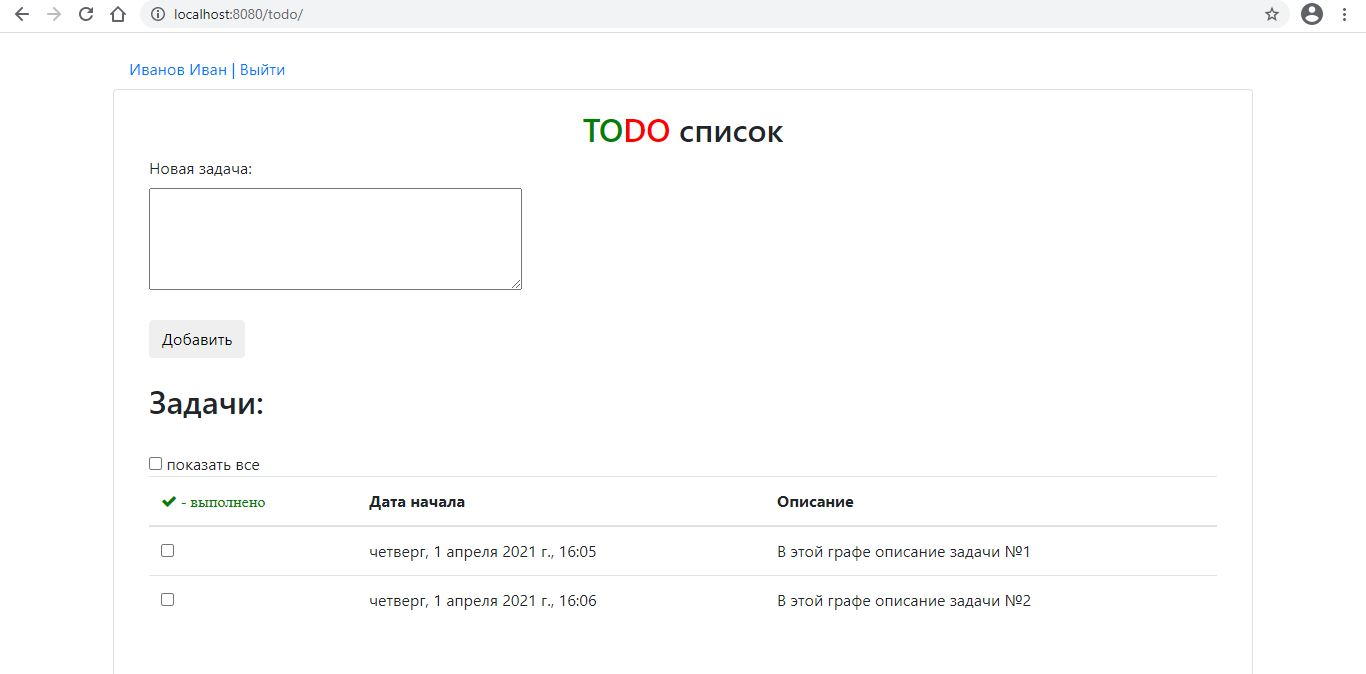
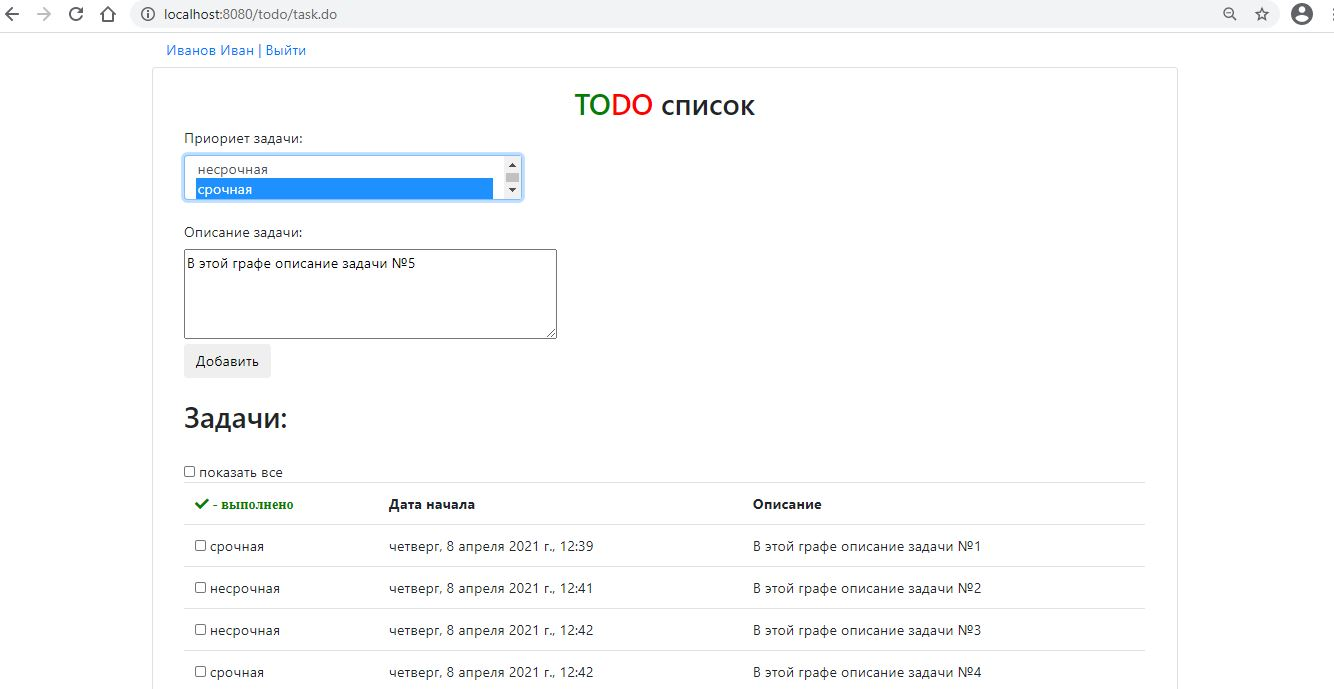
5. Date [#477025]

diff --git a/src/main/java/ru/job4j/todo/model/Task.java b/src/main/java/ru/job4j/todo/model/Task.java
@@ -1,8 +1,8 @@
 package ru.job4j.todo.model;
 
 import javax.persistence.*;
-import java.sql.Timestamp;
 import java.util.ArrayList;
+import java.util.Date;
 import java.util.List;
 import java.util.Objects;
 
@@ -12,7 +12,10 @@ public class Task {
     @Id
     @GeneratedValue(strategy = GenerationType.IDENTITY)
     private int id;
-    private Timestamp created;
+
+    @Temporal(TemporalType.TIMESTAMP)
+    private Date created;
+
     private String description;
     private boolean done;
 
@@ -23,18 +26,20 @@ public class Task {
     @ManyToMany(fetch = FetchType.EAGER, cascade = {CascadeType.ALL, CascadeType.PERSIST, CascadeType.MERGE})
     private List<Category> categories = new ArrayList<>();
 
+    public Task() {
+    }
+
     public void addCategory(Category category) {
         this.categories.add(category);
     }
     
-    public Task() {
-    }
-    
-    public Task(Timestamp created, String description, boolean done, User user) {
-        this.created = created;
-        this.description = description;
-        this.done = done;
-        this.user = user;
+    public static Task of(String description, User user) {
+        Task task = new Task();
+        task.created = new Date(1000 * (System.currentTimeMillis() / 1000));
+        task.done = false;
+        task.description = description;
+        task.user = user;
+        return task;
     }
 
     public int getId() {
@@ -45,11 +50,11 @@ public class Task {
         this.id = id;
     }
 
-    public Timestamp getCreated() {
+    public Date getCreated() {
         return created;
     }
 
-    public void setCreated(Timestamp created) {
+    public void setCreated(Date created) {
         this.created = created;
     }
 

diff --git a/src/main/java/ru/job4j/todo/servlets/TaskServlet.java b/src/main/java/ru/job4j/todo/servlets/TaskServlet.java
@@ -10,8 +10,9 @@ import javax.servlet.http.HttpServletResponse;
 import java.io.*;
 import java.net.URLDecoder;
 import java.nio.charset.StandardCharsets;
-import java.sql.Timestamp;
+
 import java.util.ArrayList;
+import java.util.Date;
 import java.util.List;
 import ru.job4j.todo.model.Category;
 
@@ -37,9 +38,8 @@ public class TaskServlet extends HttpServlet {
         HbmTODO hbmTODO = new HbmTODO();
         if (decodedJson.contains("=")) {
             String description = decodedJson.split("=")[2];
-            Timestamp time = new Timestamp(1000 * (System.currentTimeMillis() / 1000));
-            Task task = new Task(
-                    time, description, false, user);
+           
+            Task task = Task.of(description, user);
             
             String id = decodedJson.split("=")[1].split("&")[0];
             Category category = hbmTODO.findCategoryById(id);

diff --git a/README.md b/README.md
@@ -1,12 +1,13 @@
 Репозиторий приложения "TODO список"
 
 "TODO список" - это приложение для добавления/удаления и отслеживания задач в списке. 
-Можно просматривать задачи в двух режимах - невыполненых задач или все задачи.
+Можно просматривать задачи в двух режимах - "невыполненых задач" или "все задачи".
+У каждой задачи устанавливается приоритет "срочная"/"несрочная".
 Вход в приложение по уникальному логину и паролю. Все формы проходят валидацию.
 Пользователь должен пройти регистрацию.
 Задачи хранятся в БД, соответственно у каждого пользователя свой список задач.
 
-В проекте использовались: Hibernate, Postgres, Tomcat, Java14, AJAX, JSON, JSTL, HTML, CSS.
+В проекте использовались: Hibernate, Postgres, Tomcat, Java14, AJAX, JSON, JSTL, HTML, JSP.
 
 Интерфейс приложения:
 
